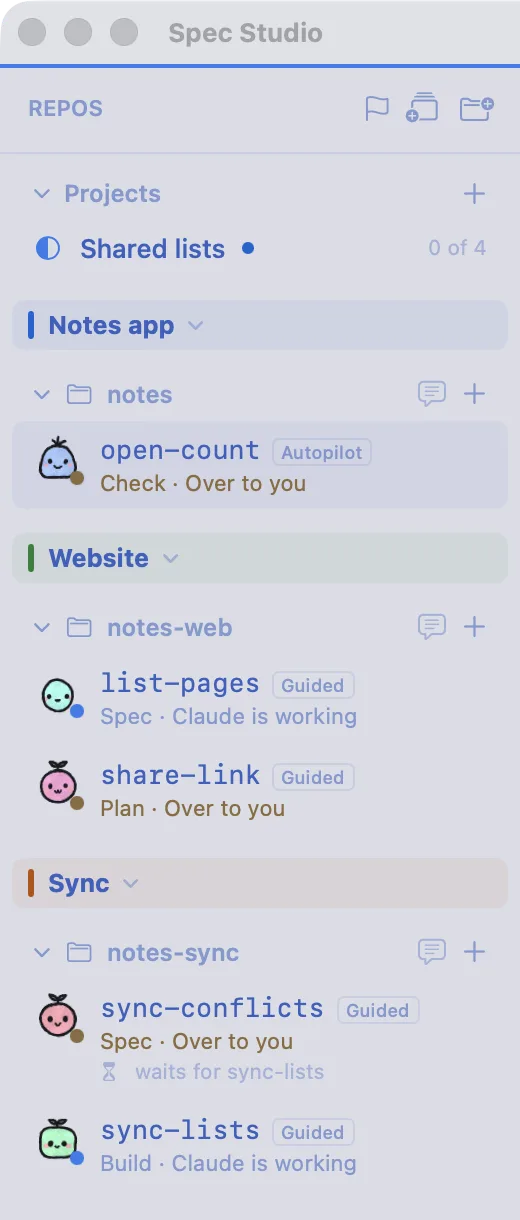
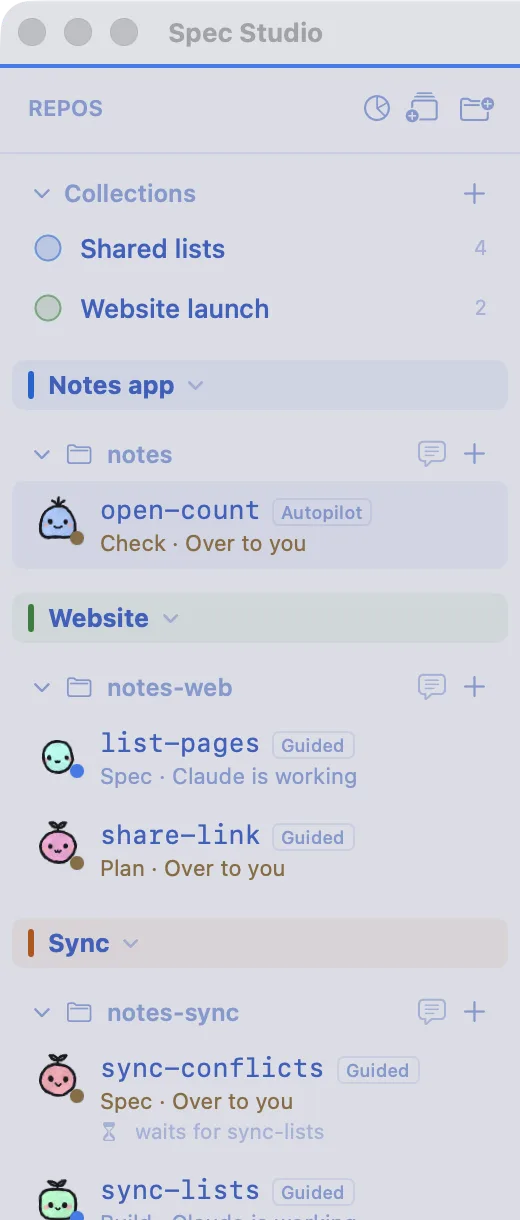
Collections in place of projects (#16)
* The guide: Areas and collections, and list_collections in the relay table (R13.S2)

* Fix: the guide gives real examples, not <name> and <spec>, which the page dropped as tags (round-1/F1)

* Fix: the shot scripts make collections and waits; the project-view still leaves the guide registry (round-1/F9)

* Fix: new stills of the sidebar with the Collections section, light and dark (round-1/F2)

* Fix: shoot-areas opens the Collections section for the stills (round-2/F1)

* Fix: the backend guide names the collections and the waits, not the projects (round-4/F1)

diff --git a/tests/shots.spec.ts b/tests/shots.spec.ts
@@ -1,17 +1,18 @@
 import { expect, test, type Page } from '@playwright/test';
 import { existsSync } from 'node:fs';
 
-// The stills of areas and projects (specs/areas-and-projects-media/spec.md).
+// The stills of areas and collections (specs/areas-and-projects-media/spec.md;
+// the project view left the guide with specs/collections in the app repo).
 // src/lib/shots.ts is not imported here: it needs SvelteKit's $app/paths.
-const names = ['areas-sidebar', 'project-view'];
+const names = ['areas-sidebar'];
 
-/** The stills in the "Areas and projects" section: between its h2 and the next h2. */
+/** The stills in the "Areas and collections" section: between its h2 and the next h2. */
 async function sectionShots(page: Page) {
 	return page.getByTestId('guide').evaluate((root) => {
 		const found: { name: string; alt: string; loading: string; src: string; width: number; caption: string }[] = [];
 		let inSection = false;
 		for (const el of Array.from(root.querySelectorAll('h2, figure.shot'))) {
-			if (el.tagName === 'H2') inSection = el.id === 'areas-and-projects';
+			if (el.tagName === 'H2') inSection = el.id === 'areas-and-collections';
 			else if (inSection) {
 				const img = el.querySelector('img')!;
 				found.push({
@@ -43,13 +44,13 @@ test('each still of the guide has a light and a dark file', () => {
 			expect(existsSync(new URL(`../static/shots/${file}`, import.meta.url)), file).toBe(true);
 		}
 	}
-	for (const name of [...names, 'areas-folded']) {
+	for (const name of [...names, 'areas-folded', 'project-view']) {
 		expect(existsSync(new URL(`../video/stills/${name}.webp`, import.meta.url)), name).toBe(true);
 	}
 });
 
 // R2.S1 and R2.S3
-test('the Areas and projects section shows two stills, lazily, each with an alt text and a caption', async ({ page }) => {
+test('the Areas and collections section shows its still, lazily, with an alt text and a caption', async ({ page }) => {
 	await page.goto('./guides/app/');
 	await loadAll(page);
 	const shots = await sectionShots(page);

diff --git a/tests/guides.spec.ts b/tests/guides.spec.ts
@@ -124,7 +124,7 @@ test('the tools table gives each tool online and offline', async ({ page }) => {
 	const table = page.getByTestId('guide').locator('h2#the-tools ~ .table table').first();
 	await expect(table.locator('thead th')).toHaveText(['Tool', 'Mac online', 'Mac offline']);
 	const tools = await table.locator('tbody tr td:first-child').allInnerTexts();
-	expect(tools).toEqual(['list_repos', 'list_specs', 'list_projects', 'read_spec', 'make_spec', 'start_spec', 'send_message', 'read_messages', 'upload_attachment']);
+	expect(tools).toEqual(['list_repos', 'list_specs', 'list_collections', 'read_spec', 'make_spec', 'start_spec', 'send_message', 'read_messages', 'upload_attachment']);
 	for (const row of await table.locator('tbody tr').all()) {
 		for (const cell of await row.locator('td').all()) expect((await cell.innerText()).trim().length).toBeGreaterThan(0);
 	}
@@ -237,4 +237,15 @@ test('the copy button of a code block copies its command', async ({ page, contex
 	await expect(block.getByRole('status')).toHaveText('Copied to the clipboard.');
 	expect(await page.evaluate(() => navigator.clipboard.readText())).toBe('docker compose --profile dev up');
 	await expect(button).toHaveText('Copy', { timeout: 4000 });
+});
+
+// specs/collections R13.S2 (in the app repo)
+test('the app guide has the section Areas and collections, and no project view', async ({ page }) => {
+	await page.goto('./guides/app/');
+	const guide = page.getByTestId('guide');
+	await expect(guide.locator('h2#areas-and-collections')).toHaveText('Areas and collections');
+	await expect(guide.locator('h2#areas-and-projects')).toHaveCount(0);
+	await expect(guide.locator('h3#archive-a-collection')).toHaveCount(1);
+	await expect(guide.locator('[data-shot="project-view"]')).toHaveCount(0);
+	await expect(guide).toContainText('studio collection new');
 });

diff --git a/src/lib/shots.ts b/src/lib/shots.ts
@@ -12,8 +12,7 @@ type Shot = { width: number; height: number; narrow?: boolean };
 
 export const shots = {
 	// The sidebar only (a 520 × 1220 crop of the window, at 2× scale).
-	'areas-sidebar': { width: 520, height: 1220, narrow: true },
-	'project-view': { width: 1600, height: 1000 }
+	'areas-sidebar': { width: 520, height: 1220, narrow: true }
 } satisfies Record<string, Shot>;
 
 export type ShotName = keyof typeof shots;

diff --git a/src/guides/app.md b/src/guides/app.md
@@ -1,6 +1,6 @@
 ---
 title: The app
-summary: The five stages, the three modes, the review, the panels, areas and projects, pause and archive, and the studio command.
+summary: The five stages, the three modes, the review, the panels, areas and collections, pause and archive, and the studio command.
 order: 2
 ---
 
@@ -65,7 +65,7 @@ Each spec has a shell beside its Claude session, in the spec's worktree. Use it 
 - **Priority** (⌃⌘2): the specs that need you first, across all repos. The panel's icon shows how many need you.
 - **Shipped** (⌃⌘3): the merged specs, newest first, with a filter.
 
-## Areas and projects
+## Areas and collections
 
 An **area** is a group of repos, for example all the repos of one client. A repo is in one area, or in none.
 
@@ -75,25 +75,30 @@ An **area** is a group of repos, for example all the repos of one client. A repo
 - When you add a repo, Spec Studio can suggest an area: an area with the same GitHub owner, the same parent folder, or shared specs. Click **Add** or **Dismiss**. Spec Studio never moves a repo by itself.
 - The Priority panel can show one area only. A notification names the area of its spec.
 
-![The Repos panel with three areas: Notes app in blue, Website in green and Sync in orange. Each area shows its repos and their specs. The spec sync-conflicts shows "waits for sync-lists".](shot:areas-sidebar "The Repos panel with three areas. Each area has its color, and its repos and specs are under it.")
+![The Repos panel: the Collections section at the top with Shared lists (4 specs) and Website launch (2 specs), each with its progress pie, then three areas: Notes app in blue, Website in green and Sync in orange. Each area shows its repos and their specs. The spec sync-conflicts shows "waits for sync-lists".](shot:areas-sidebar "The Repos panel: two collections at the top, then three areas. Each area has its color, and its repos and specs are under it.")
 
-A **project** is a goal that ends, with specs from one or more repos. It has a description, a status (Planned, In progress, Paused, Done or Canceled), an optional target date, optional milestones and project updates.
+A **collection** is a set of specs from any repo and any area, open or shipped. A spec can be in many collections. A collection has a name, a color, an optional description and an optional link, for example to a Linear project. It has no status and no dates: it is not a second tracker.
 
-- Make a project with **New Project…** in the context menu of the Repos panel, or with the flag button at the top of the panel. The **Projects** section at the top of the Repos panel then lists the projects. Click a project to open its view: the progress, the milestones, the specs with their stage and turn, and the newest update.
-- A spec can **wait for** other specs of its project. The sidebar shows "waits for" under a waiting spec. Spec Studio does not start a spec by itself.
-- A Planned project moves to In progress when one of its specs starts. A Paused or Canceled project keeps its status. When all its specs ship, the project view offers **Mark as Done**.
-- Pick a project in the New Spec sheet, or make the spec from the project view.
+- The **Collections** section at the top of the Repos panel lists the collections in name order. Each row shows a small pie that fills as the specs ship, the name and the number of specs. Point to the pie to read "5 of 7 shipped". A full pie shows a check. Click the header to fold the section.
+- Make a collection with **New Collection…** in the context menu of the Repos panel or of the Collections header.
+- Click a collection to filter the sidebar. The Repos panel then shows only the specs of that collection, under their areas and repos, and the shipped specs in a folded **Shipped** row at the bottom. The Priority panel shows only the specs of the collection too. A bar at the top of each list names the collection, for example "Collection: Shared lists". Click its ×, click the collection again, or press Esc to show all specs again. The main area always shows a spec.
+- The header of a spec shows a small chip for each of its collections. Click a chip to filter by that collection.
+- Add a spec to a collection, or take it out, with **Collections ▸** in the context menu of the spec. You can also drag a spec onto a collection, check collections in the New Spec sheet, or pick **Add Specs…** in the context menu of the collection. A spec that you make while a filter is on goes into that collection.
+- The context menu of a collection has **Rename**, **Color**, **Description and Link…**, **Add Specs…**, **Archive** and **Delete**. Delete keeps the specs.
 
-![The project view of the project Shared lists: its description, its target date, the progress, the newest update, the milestones Sync and Sharing, and its four specs. The spec sync-conflicts waits for sync-lists.](shot:project-view "The project view: the progress, the newest update, the milestones and the specs. One spec waits for another spec.")
+A spec can **wait for** another spec in any repo, in a collection or not. The sidebar shows a line such as "waits for sync-lists" under a waiting spec. Spec Studio does not start a spec by itself.
 
-Areas and projects are personal. They are in the backend plugin, not in your repos. With the JSON plugin they are on your Mac. With the Temporal plugin they are in Temporal. See [Backend plugins](/guides/backend-plugins/). The `studio project` commands change projects from any terminal, and Claude AI reads them through the relay:
+Areas and collections are personal. They are in the backend plugin, not in your repos. With the JSON plugin they are on your Mac. With the Temporal plugin they are in Temporal. See [Backend plugins](/guides/backend-plugins/). The `studio collection` and `studio wait` commands change them from any terminal, and Claude AI reads them through the relay:
 
 ```sh
 studio specs --area Acme
-studio project new "Backend plugins" --description "Plugins for the backend."
-studio project add "Backend plugins" plugin-json --repo ~/code/plugin-json
-studio project update "Backend plugins" --health on-track "The protocol is done."
+studio collection new "Backend plugins" --description "Plugins for the backend."
+studio collection add "Backend plugins" plugin-json --repo ~/code/plugin-json
+studio specs --collection "Backend plugins"
+studio wait plugin-json --on plugin-protocol
 ```
+
+If you used projects before, Spec Studio makes a collection of each project the first time it starts, with the same specs and the color of its area. The status, the dates, the milestones and the updates go to a backup in the backend plugin. For one release, `studio project` still works as `studio collection`.
 
 ### Pause a spec
 
@@ -105,7 +110,6 @@ Pause a spec when it must wait, for example for an API that is not ready. A paus
 - A paused spec shows dimmed, with a pause mark, in a folded **Paused** row at the bottom of its repo. You can still open it and read it. Its terminal shows the last screen and a **Resume** button.
 - Messages from the relay wait in the inbox of the spec. Claude AI gets the answer "The spec is paused", with the reason.
 - Choose **Resume** in the menu, in the header or in the terminal, or run `studio resume`. The session starts again, and the app types the messages that came while the spec was paused.
-- To pause all the open specs of a project, choose **Pause Specs…** in the project view. A list of the specs shows first. This does not change the status of the project.
 
 ### Archive a repo
 
@@ -117,12 +121,11 @@ Archive a repo that you do not use now. Archive never deletes a file.
 - **Unarchive** puts the repo back in its place in the area. Its paused specs stay paused.
 - When a repo has had no open spec and no event for 30 days, Spec Studio shows a quiet "Archive this repo?" suggestion once. Spec Studio never archives a repo by itself.
 
-### Archive a project
+### Archive a collection
 
-- Choose **Archive** in the project view or in its context menu. A Done or Canceled project archives at once. For other projects, Spec Studio asks you to pause the open specs first, or to cancel.
-- An archived project leaves the project list and the project filters. It moves to a folded **Archived** row at the bottom of the Projects section. The project picker of the New Spec sheet lists it under **Archived projects**. Its specs keep their link to it.
-- The view of an archived project is read-only, with an **Unarchive** button.
-- In a terminal, run `studio project archive <name>` or `studio project unarchive <name>`. `studio project list --archived` lists the archived projects.
+- Choose **Archive** in the context menu of the collection. A collection whose open specs are all paused, or all shipped, archives at once. Else Spec Studio asks you to pause the open specs first, or to cancel.
+- An archived collection moves to a folded **Archived** row at the bottom of the Collections section. It is read-only until you choose **Unarchive**. Its specs keep their chips.
+- In a terminal, run `studio collection archive <name>` (add `--pause-specs` to pause the open specs) or `studio collection unarchive <name>`. `studio collection list --archived` lists the archived collections.
 
 ## Settings
 

diff --git a/scripts/shots/README.md b/scripts/shots/README.md
@@ -1,6 +1,6 @@
 # Screenshots and clips of the app
 
-These scripts make the screen clips and stills of the video (`video/clips/`, `video/stills/`) from a test copy of Spec Studio with the demo repo `spec-studio-app/notes-demo` (cloned to `/Users/Shared/spec-studio-demo/notes`, so no home folder name shows). Most figures of the guides are live SVG prototypes (`src/lib/protos/`). The only guide stills are the stills of areas and projects (`static/shots/`, see "Areas and projects" below).
+These scripts make the screen clips and stills of the video (`video/clips/`, `video/stills/`) from a test copy of Spec Studio with the demo repo `spec-studio-app/notes-demo` (cloned to `/Users/Shared/spec-studio-demo/notes`, so no home folder name shows). Most figures of the guides are live SVG prototypes (`src/lib/protos/`). The only guide stills are the stills of areas and collections (`static/shots/`, see "Areas and collections" below).
 
 1. Build the test copy from the app repo: `OUT="$HOME/Library/Caches/Spec Studio/try/marketing" ./scripts/bundle.sh`.
 2. Make its support folder with only the demo repo: `support/repos.json` with `[{"path": "/Users/Shared/spec-studio-demo/notes"}]`.
@@ -28,11 +28,13 @@ The test copy shares its settings store with the installed app. `launch` saves t
 
 `first-open` needs a support folder with no repo (`./launch <theme> <empty folder>`). `new-spec` needs ⌘N and `settings-relay` needs ⌘, in the test copy, then `./cap -x -o -l <window id> shots/<name>.png`. Convert every shot with `cwebp -q 82 -resize 1600 0 shots/<name>.png -o ../../video/stills/<name>.webp`.
 
-## Areas and projects
+## Areas and collections
 
-The stills of areas and projects (`static/shots/` for the guides, `video/stills/` for the video) use their own demo data, never your support folder:
+The stills of areas and collections (`static/shots/` for the guides, `video/stills/` for the video) use their own demo data, never your support folder. Set `TRY` to the folder of the test copy when it is not `try/marketing`, for each script below and for `launch` (`launch` reads the same variable).
 
-1. `./demo-areas` makes the support folder `$TRY/support-areas`: two more demo repos (`/Users/Shared/spec-studio-demo/notes-web` and `notes-sync`, local git repos with demo specs), three areas ("Notes app", "Website" and "Sync") and the demo project "Shared lists", with two milestones and a spec that waits for another spec. Run it again to start from the same data.
-2. `./shoot-areas "TokyoNight Day" ""` and `./shoot-areas "TokyoNight Storm" -dark` take `areas-sidebar`, `areas-folded` (the Website area folded, with its badge) and `project-view` (opened with `-selectedSpec project:<id>`) into `shots/`. The test copy starts no Claude session, so the script hides the empty Claude pane with Hide Claude (⌃⌘C), through `./press`.
+1. `./demo-areas` makes the support folder `$TRY/support-areas`: two more demo repos (`/Users/Shared/spec-studio-demo/notes-web` and `notes-sync`, local git repos with demo specs), three areas ("Notes app", "Website" and "Sync"), the demo collections "Shared lists" and "Website launch", and a spec that waits for another spec. Run it again to start from the same data.
+2. `./shoot-areas "TokyoNight Day" ""` and `./shoot-areas "TokyoNight Storm" -dark` take `areas-sidebar` (the Collections section and the three areas) and `areas-folded` (the Website area folded, with its badge) into `shots/`. The test copy starts no Claude session, so the script hides the empty Claude pane with Hide Claude (⌃⌘C), through `./press`.
 3. `./restore`.
-4. Convert with `cwebp -q 82`. The guide still `areas-sidebar` is the sidebar only, so its text stays readable on a phone: `-crop 0 0 520 1220`, light and dark, to `static/shots/areas-sidebar.webp` and `areas-sidebar-dark.webp`. `project-view` gets `-resize 1600 0`, to `static/shots/project-view.webp` and `project-view-dark.webp`. The three dark stills get `-resize 1600 0`, to `video/stills/<name>.webp`.
+4. Convert with `cwebp -q 82`. The guide still `areas-sidebar` is the sidebar only, so its text stays readable on a phone: `-crop 0 0 520 1220`, light and dark, to `static/shots/areas-sidebar.webp` and `areas-sidebar-dark.webp`. The dark stills get `-resize 1600 0`, to `video/stills/<name>.webp`.
+
+The `project-view` still (`video/stills/project-view.webp`) is from the time of projects. Only the video uses it now, until the video gets new narration.

diff --git a/src/guides/relay.md b/src/guides/relay.md
@@ -118,10 +118,10 @@ Then ask Claude, for example: "Which of my specs need me?" or "Tell the notes sp
 | Tool | Mac online | Mac offline |
 |---|---|---|
 | `list_repos` | The Mac answers. Each repo shows its area. `area` shows the repos of one area. | The repos from the last connection of the Mac, with its time. The `area` filter needs the Mac online. |
-| `list_specs` | The Mac answers. Each spec shows its area and its project. `area` and `project` filter the list. | The relay's copy of each spec, with the time of its last sync. The `area` and `project` filters need the Mac online. |
-| `list_projects` | The Mac answers: each project with its status, progress, target date and newest update. | Fails at once. |
+| `list_specs` | The Mac answers. Each spec shows its area and its collections. `area` and `collection` filter the list. | The relay's copy of each spec, with the time of its last sync. The `area` and `collection` filters need the Mac online. |
+| `list_collections` | The Mac answers: each collection with its color, description, link and progress. | Fails at once. |
 | `read_spec` | The Mac answers. | The state, the turn and the last 20 events. No `spec.md` or `plan.md` text. |
-| `make_spec` | The Mac answers. `project` puts the new spec in a project. | Fails at once. |
+| `make_spec` | The Mac answers. `collections` puts the new spec in one or more collections. | Fails at once. |
 | `start_spec` | The Mac answers. | Fails at once. |
 | `send_message` | The relay keeps the message and sends it to the Mac. | The relay keeps the message until the Mac connects. |
 | `read_messages` | The messages that the sessions sent with `studio message`. | The same. |

diff --git a/src/guides/backend-plugins.md b/src/guides/backend-plugins.md
@@ -12,7 +12,7 @@ The plugin keeps these items:
 
 - The state of each spec.
 - The activity of each spec, one event for each line. These events are the history of the spec.
-- The review rounds, the desks, the inbox, the areas and the projects.
+- The review rounds, the desks, the inbox, the areas, the collections and the waits.
 
 Each change of a spec writes the new state and its events in one atomic step. So the state and the history never disagree. If another writer changed the spec first, the plugin writes nothing, and Spec Studio reads the spec again and tries again.
 
@@ -99,7 +99,7 @@ To go back, set the settings that you wrote down again and click **Save**. Type 
 The work that you did on the dev server stays on the dev server. Spec Studio cannot move it to your own server:
 
 - A move goes from the plugin in use to another plugin. There is no move from Temporal to Temporal.
-- A move through JSON does not complete either. Your own server has older copies of the desks, the inbox, the areas and the projects. A move does not replace a copy that the new plugin has, so the counts do not match and the backend stays the same.
+- A move through JSON does not complete either. Your own server has older copies of the desks, the inbox, the areas, the collections and the waits. A move does not replace a copy that the new plugin has, so the counts do not match and the backend stays the same.
 
 ## Move your data to another backend
 
